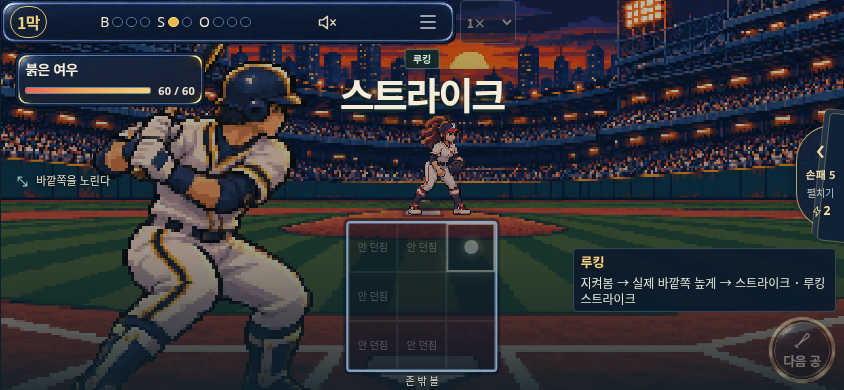
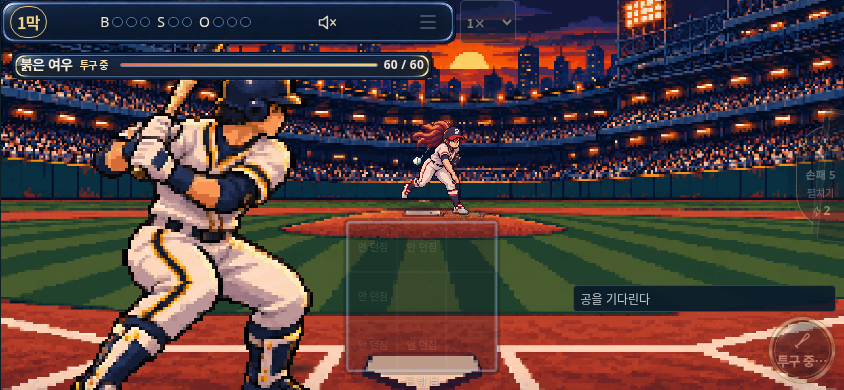
Bracket actual V5 launch captures with browser phase evidence

diff --git a/docs/qa/fox-v5-integration-20261120/capture-launch.py b/docs/qa/fox-v5-integration-20261120/capture-launch.py
@@ -1,6 +1,9 @@
 from pathlib import Path
 from playwright.sync_api import sync_playwright
-import json
+import json,base64
 p=Path(__file__).resolve().parent
 with sync_playwright() as pw:
- b=pw.chromium.launch(executable_path='/usr/bin/chromium',args=['--no-sandbox']);a=b.new_page(viewport={'width':844,'height':390},is_mobile=True,has_touch=True);a.goto('http://127.0.0.1:4196/?battleUi=vnext&battlePlay=1&seed=20261119');a.wait_for_selector('.bv-public-intent');a.wait_for_timeout(500);a.get_by_test_id('bp-swing').click();a.wait_for_selector('.bv-ball-sprite .fx-ball',state='visible');a.wait_for_timeout(35);assert a.locator('.bv-ball-sprite .fx-ball').is_visible();a.screenshot(path=str(p/'phone-launch-visible.png'));a.wait_for_timeout(70);a.screenshot(path=str(p/'phone-forward-visible.png'));b.close()
+ b=pw.chromium.launch(executable_path='/usr/bin/chromium',args=['--no-sandbox']);a=b.new_page(viewport={'width':844,'height':390},is_mobile=True,has_touch=True);a.goto('http://127.0.0.1:4196/?battleUi=vnext&battlePlay=1&seed=20261119');a.wait_for_selector('.bv-public-intent');a.wait_for_timeout(500);a.get_by_test_id('bp-swing').click();a.wait_for_function("document.querySelector('.bv-ball-sprite .fx-ball') && document.querySelector('.bv-scene').dataset.phase==='flight'",polling='raf');client=a.context.new_cdp_session(a)
+ def capture(name):
+  before=a.evaluate("({phase:document.querySelector('.bv-scene').dataset.phase,pose:document.querySelector('.bv-actor-pitcher').dataset.pose})");raw=client.send('Page.captureScreenshot',{'format':'png','captureBeyondViewport':False})['data'];(p/name).write_bytes(base64.b64decode(raw));after=a.evaluate("({phase:document.querySelector('.bv-scene').dataset.phase,pose:document.querySelector('.bv-actor-pitcher').dataset.pose})");return {'before':before,'after':after}
+ evidence={'launch':capture('phone-launch-visible.png')};a.wait_for_timeout(50);evidence['forward']=capture('phone-forward-visible.png');(p/'launch-capture-timing.json').write_text(json.dumps(evidence,indent=2));assert evidence['launch']['before']['phase']=='flight';b.close()

diff --git a/docs/qa/fox-v5-integration-20261120/README.md b/docs/qa/fox-v5-integration-20261120/README.md
@@ -31,3 +31,5 @@ Actual game capture inspected at1×; phone-launch-visible.png explicitlywaitsfor
 
 ## Failure/provenance record
 Initial WebP save dropped invisibleRGB underalpha0; exactRGBAassertion failed. Enabledlossless exactRGBpreservation, reranall12cell comparisons; no visiblepixel orsource resampling. Library'scurrenthelper failedproxy403; officialGitinput transfer superseded it andwasdirectlyverified. No LibraryID fornewoutputs. UsedcurrentLibraryskill, repoAGENTS impactanalysis andCodex independentreview. No localpixelSKILL.md found. No stagingmerge/cherrypick,main,merge,Sites or deployment.
+
+Capture correction: the initial Playwright screenshot waited long enough to capture a result despite being requested during launch. Replaced it with direct browser/CDP capture, with phase/pose bracketing in launch-capture-timing.json. Launch capture is bounded byflight/pose8→flight/pose9; forward byflight/pose9→flight/pose10. These are real renderedframes, not an exact950msfreeze. The RAF trace and timingtests remain the precise event evidence. No runtime/build bytes changed for this capture correction.
